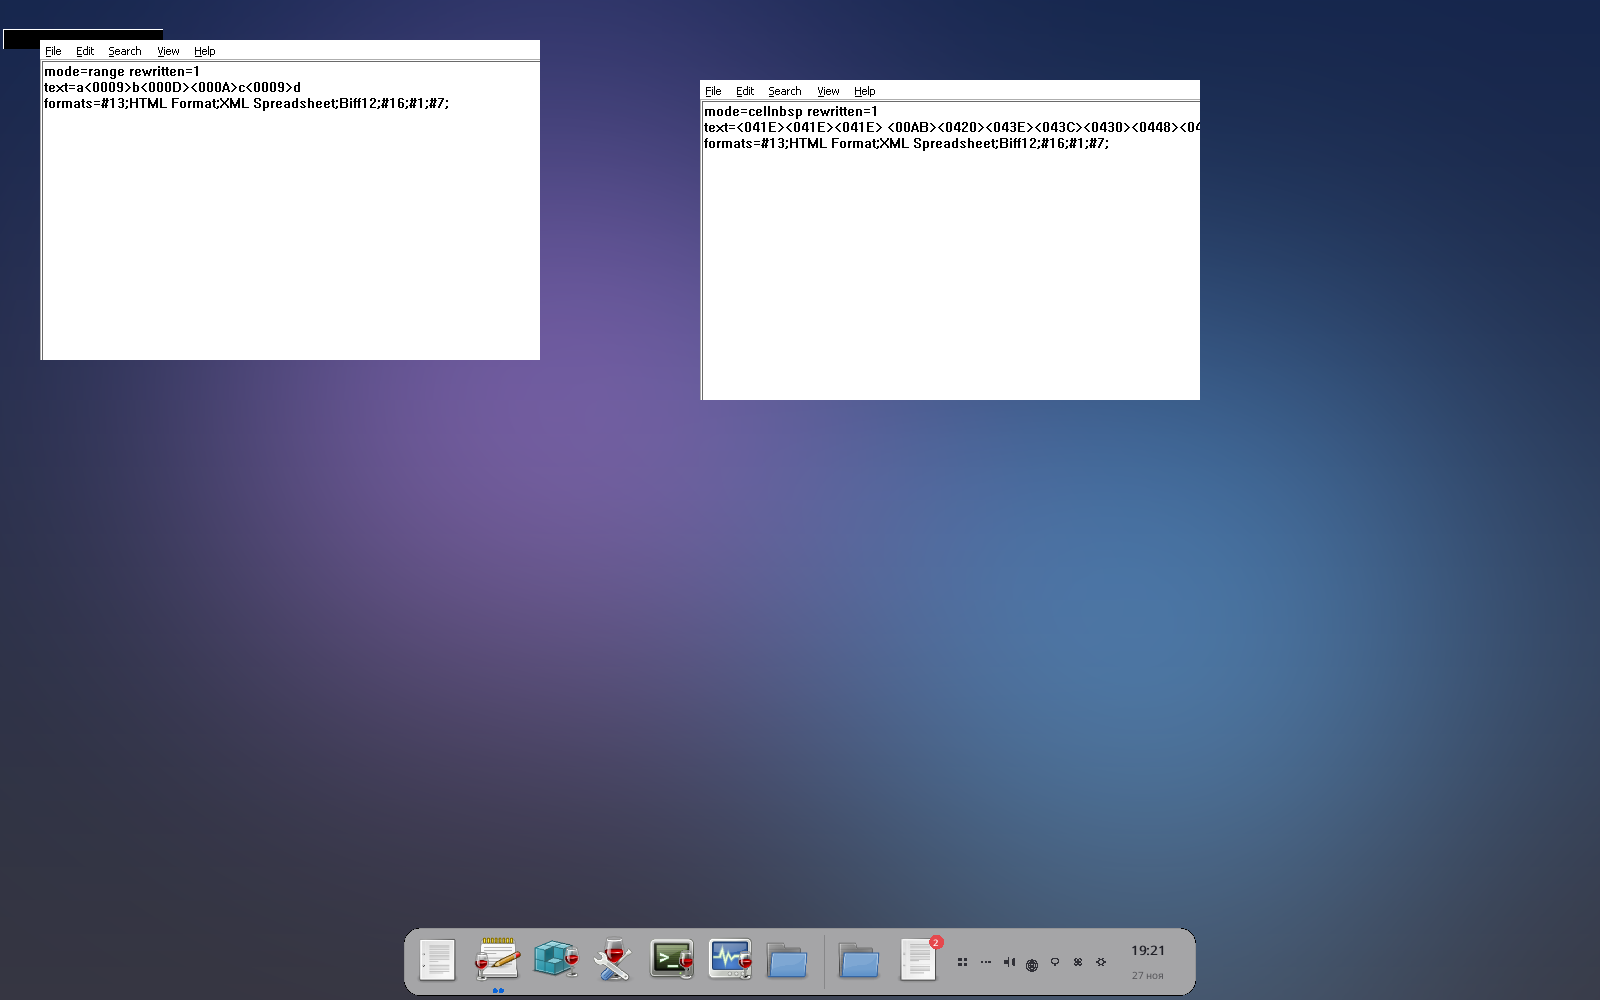
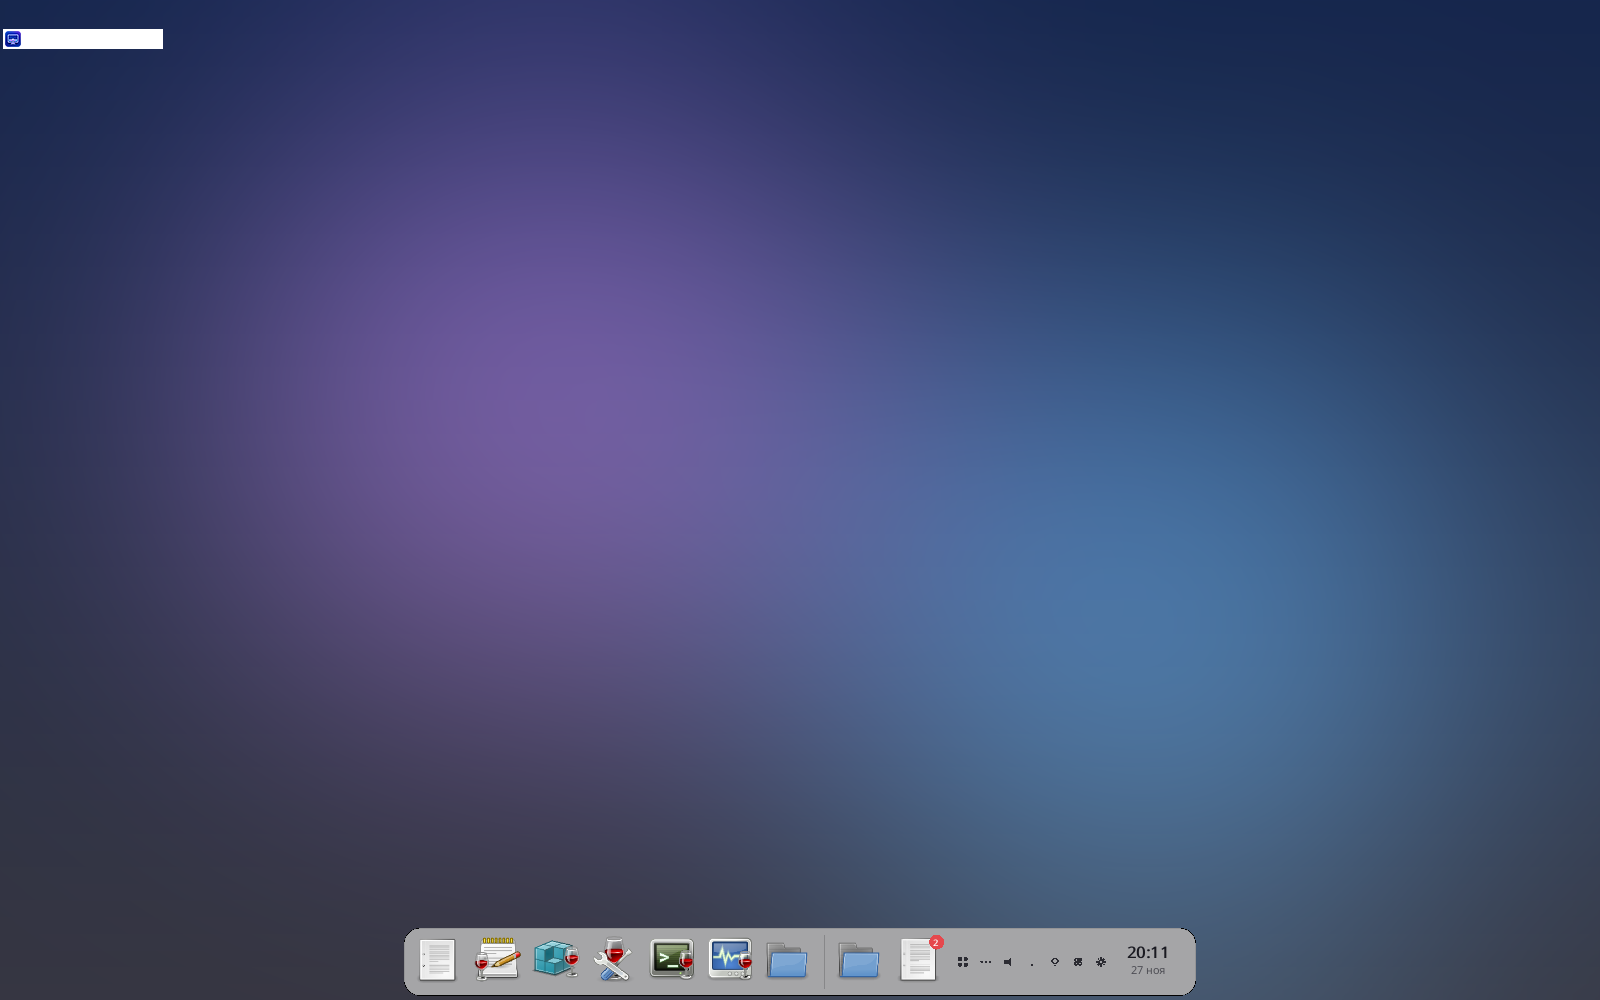
DockDesk 1.0.3: описание выпуска, сайт и README

Changed region(s): [[0.0, 0.031, 0.3438, 0.372], [0.4375, 0.062, 0.75, 0.403], [0.6875, 0.93, 0.7188, 0.961]]

diff --git a/docs/index.html b/docs/index.html
@@ -105,7 +105,7 @@ footer{padding:36px 0 50px;color:var(--sub);font-size:14.5px;text-align:center;b
       <div class="card"><div class="ic">🗑</div><h3>Корзина</h3><p>Видно, пустая она или нет, и сколько в ней файлов. Бросьте файл на корзину — он удалится в неё; «Очистить корзину» — в меню.</p></div>
       <div class="card"><div class="ic">🫥</div><h3>Без панели задач</h3><p>По умолчанию панель задач скрыта, окна занимают весь экран, док поверх них. Панель вернётся при выходе — даже после аварийного закрытия.</p></div>
       <div class="card"><div class="ic">🕒</div><h3>Системная область</h3><p>Часы и дата, громкость, сеть, уведомления, параметры Windows, «Пуск» и значки в трее — на самом доке. Щелчок по часам открывает календарь.</p></div>
-      <div class="card"><div class="ic">🖥</div><h3>Несколько экранов</h3><p>Док можно поставить на основной экран, на экран под курсором или на выбранный монитор.</p></div>
+      <div class="card"><div class="ic">🖥</div><h3>Несколько экранов</h3><p>Док можно поставить на основной экран, на экран под курсором или на все мониторы сразу (отдельный док на каждом).</p></div>
       <div class="card"><div class="ic">🎮</div><h3>Не мешает играм</h3><p>Над полноэкранными играми и видео док уходит с экрана сам. Обычные развёрнутые окна его не прячут.</p></div>
       <div class="card"><div class="ic">🪶</div><h3>Лёгкий</h3><p>Без движения мыши DockDesk не тратит процессор: кадры рисуются только во время анимации. Светлая и тёмная тема.</p></div>
     </div>
@@ -151,6 +151,8 @@ footer{padding:36px 0 50px;color:var(--sub);font-size:14.5px;text-align:center;b
     <details><summary>Я спрятал панель задач. Как её вернуть?</summary><p>Выключите «Скрывать панель задач Windows» в настройках или выйдите из DockDesk через значок у часов. Если программа закрылась аварийно, панель вернётся при следующем запуске.</p></details>
     <details><summary>Куда делись часы и значки у часов?</summary><p>Когда панель задач спрятана, часы, громкость, сеть, уведомления, «Пуск» и значки в трее живут на доке. Щёлкните часы, чтобы открыть календарь, или кнопку трея — чтобы открыть скрытые значки.</p></details>
     <details><summary>Док пропал после включения аппаратного ускорения</summary><p>С версии 1.0.2 DockDesk сам переключается на обычную отрисовку, если видеокарта не справилась. Причину можно посмотреть в файле <code>%APPDATA%\DockDesk\DockDesk.log</code>. Аппаратное ускорение можно выключить в настройках.</p></details>
+    <details><summary>При включении дока прыгают значки на рабочем столе?</summary><p>С версии 1.0.3 DockDesk не меняет рабочую область, если вы не включили «Оставлять место под док». Панель задач прячется иначе, позиции значков возвращаются на место.</p></details>
+    <details><summary>Панель задач выезжает, если навести курсор вниз</summary><p>В 1.0.3 панель прячется целиком и не должна выезжать от курсора у края. Вернуть её можно в настройках или выходом из DockDesk.</p></details>
     <details><summary>Не будет ли тормозить компьютер?</summary><p>Нет. Пока вы не наводите мышь на док, DockDesk ничего не рисует и не опрашивает: за окнами он следит по событиям Windows.</p></details>
     <details><summary>Программа что-нибудь отправляет?</summary><p>Нет. В интернет DockDesk обращается лишь к GitHub за обновлениями — это можно выключить. На этом сайте нет счётчиков и аналитики.</p></details>
   </section>

diff --git a/release-notes/v1.0.3.md b/release-notes/v1.0.3.md
@@ -1,0 +1,21 @@
+## 👀 DockDesk для Windows 1.0.3
+
+**Скачать:** `DockDesk-1.0.3-win64.zip` ниже (или постоянная ссылка `DockDesk-win64.zip`). Распакуйте и запустите `DockDesk.exe`.
+
+### Что нового
+- Режим «На всех» ставит отдельный док на каждый монитор. Можно показывать на каждом доке только окна своего экрана
+- Значки системной области перерисованы: на Windows 10 и 11 берутся из шрифта Segoe Fluent Icons (или Segoe MDL2 Assets), иначе — аккуратные запасные глифы. Часы набраны табличными цифрами
+
+### Исправлено
+- При наведении подсвечивался не тот значок (особенно в системной области). Теперь раскладка для рисования и для мыши одна и та же, при любом увеличении и DPI
+- На двух мониторах док мог не появиться (устаревший номер экрана, отрицательные координаты, разный DPI). Если выбранный монитор не найден, док всегда встаёт на основной
+- При включении дока значки на рабочем столе прыгали, особенно на нескольких экранах. Рабочую область мы больше не меняем, если не включено «Оставлять место под док»; позиции значков сохраняются и возвращаются, рассылка рабочему столу не отправляется
+- Если навести курсор в самый низ, панель задач Windows всё равно выезжала. Теперь она прячется полностью и снова скрывается, если Проводник её покажет. Клавиша Win и кнопка «Пуск» на доке работают. Панель возвращается при выходе и после сбоя
+- Переключение настроек на лету больше не должно гасить док или ломать панель задач и рабочую область
+
+### Если Windows предупреждает
+SmartScreen может показать «Система Windows защитила ваш компьютер» — нажмите «Подробнее» → «Выполнить в любом случае».
+
+**Требования:** Windows 10 или 11, 64-бит.
+
+<!-- publish_release.sh сам допишет строку «SHA256 (DockDesk-1.0.3-win64.zip): …» — её читает автообновление. -->

diff --git a/README.md b/README.md
@@ -100,6 +100,20 @@
 </details>
 
 <details>
+<summary><b>При включении дока прыгают значки на рабочем столе?</b></summary>
+
+В 1.0.3 DockDesk больше не меняет рабочую область экрана, если вы не включили «Оставлять место под док». Панель задач прячется иначе, а позиции значков при необходимости возвращаются на место.
+
+</details>
+
+<details>
+<summary><b>Панель задач всё равно выезжает, если навести курсор вниз</b></summary>
+
+Обновитесь до 1.0.3: панель прячется целиком и не должна выезжать от курсора у края. Вернуть её можно выключателем в настройках или выходом из DockDesk.
+
+</details>
+
+<details>
 <summary><b>Не будет ли тормозить компьютер?</b></summary>
 
 Нет. Пока вы не наводите мышь на док, DockDesk ничего не рисует и ничего не опрашивает. Выключенный док не занимает память под графику и не следит за окнами.
